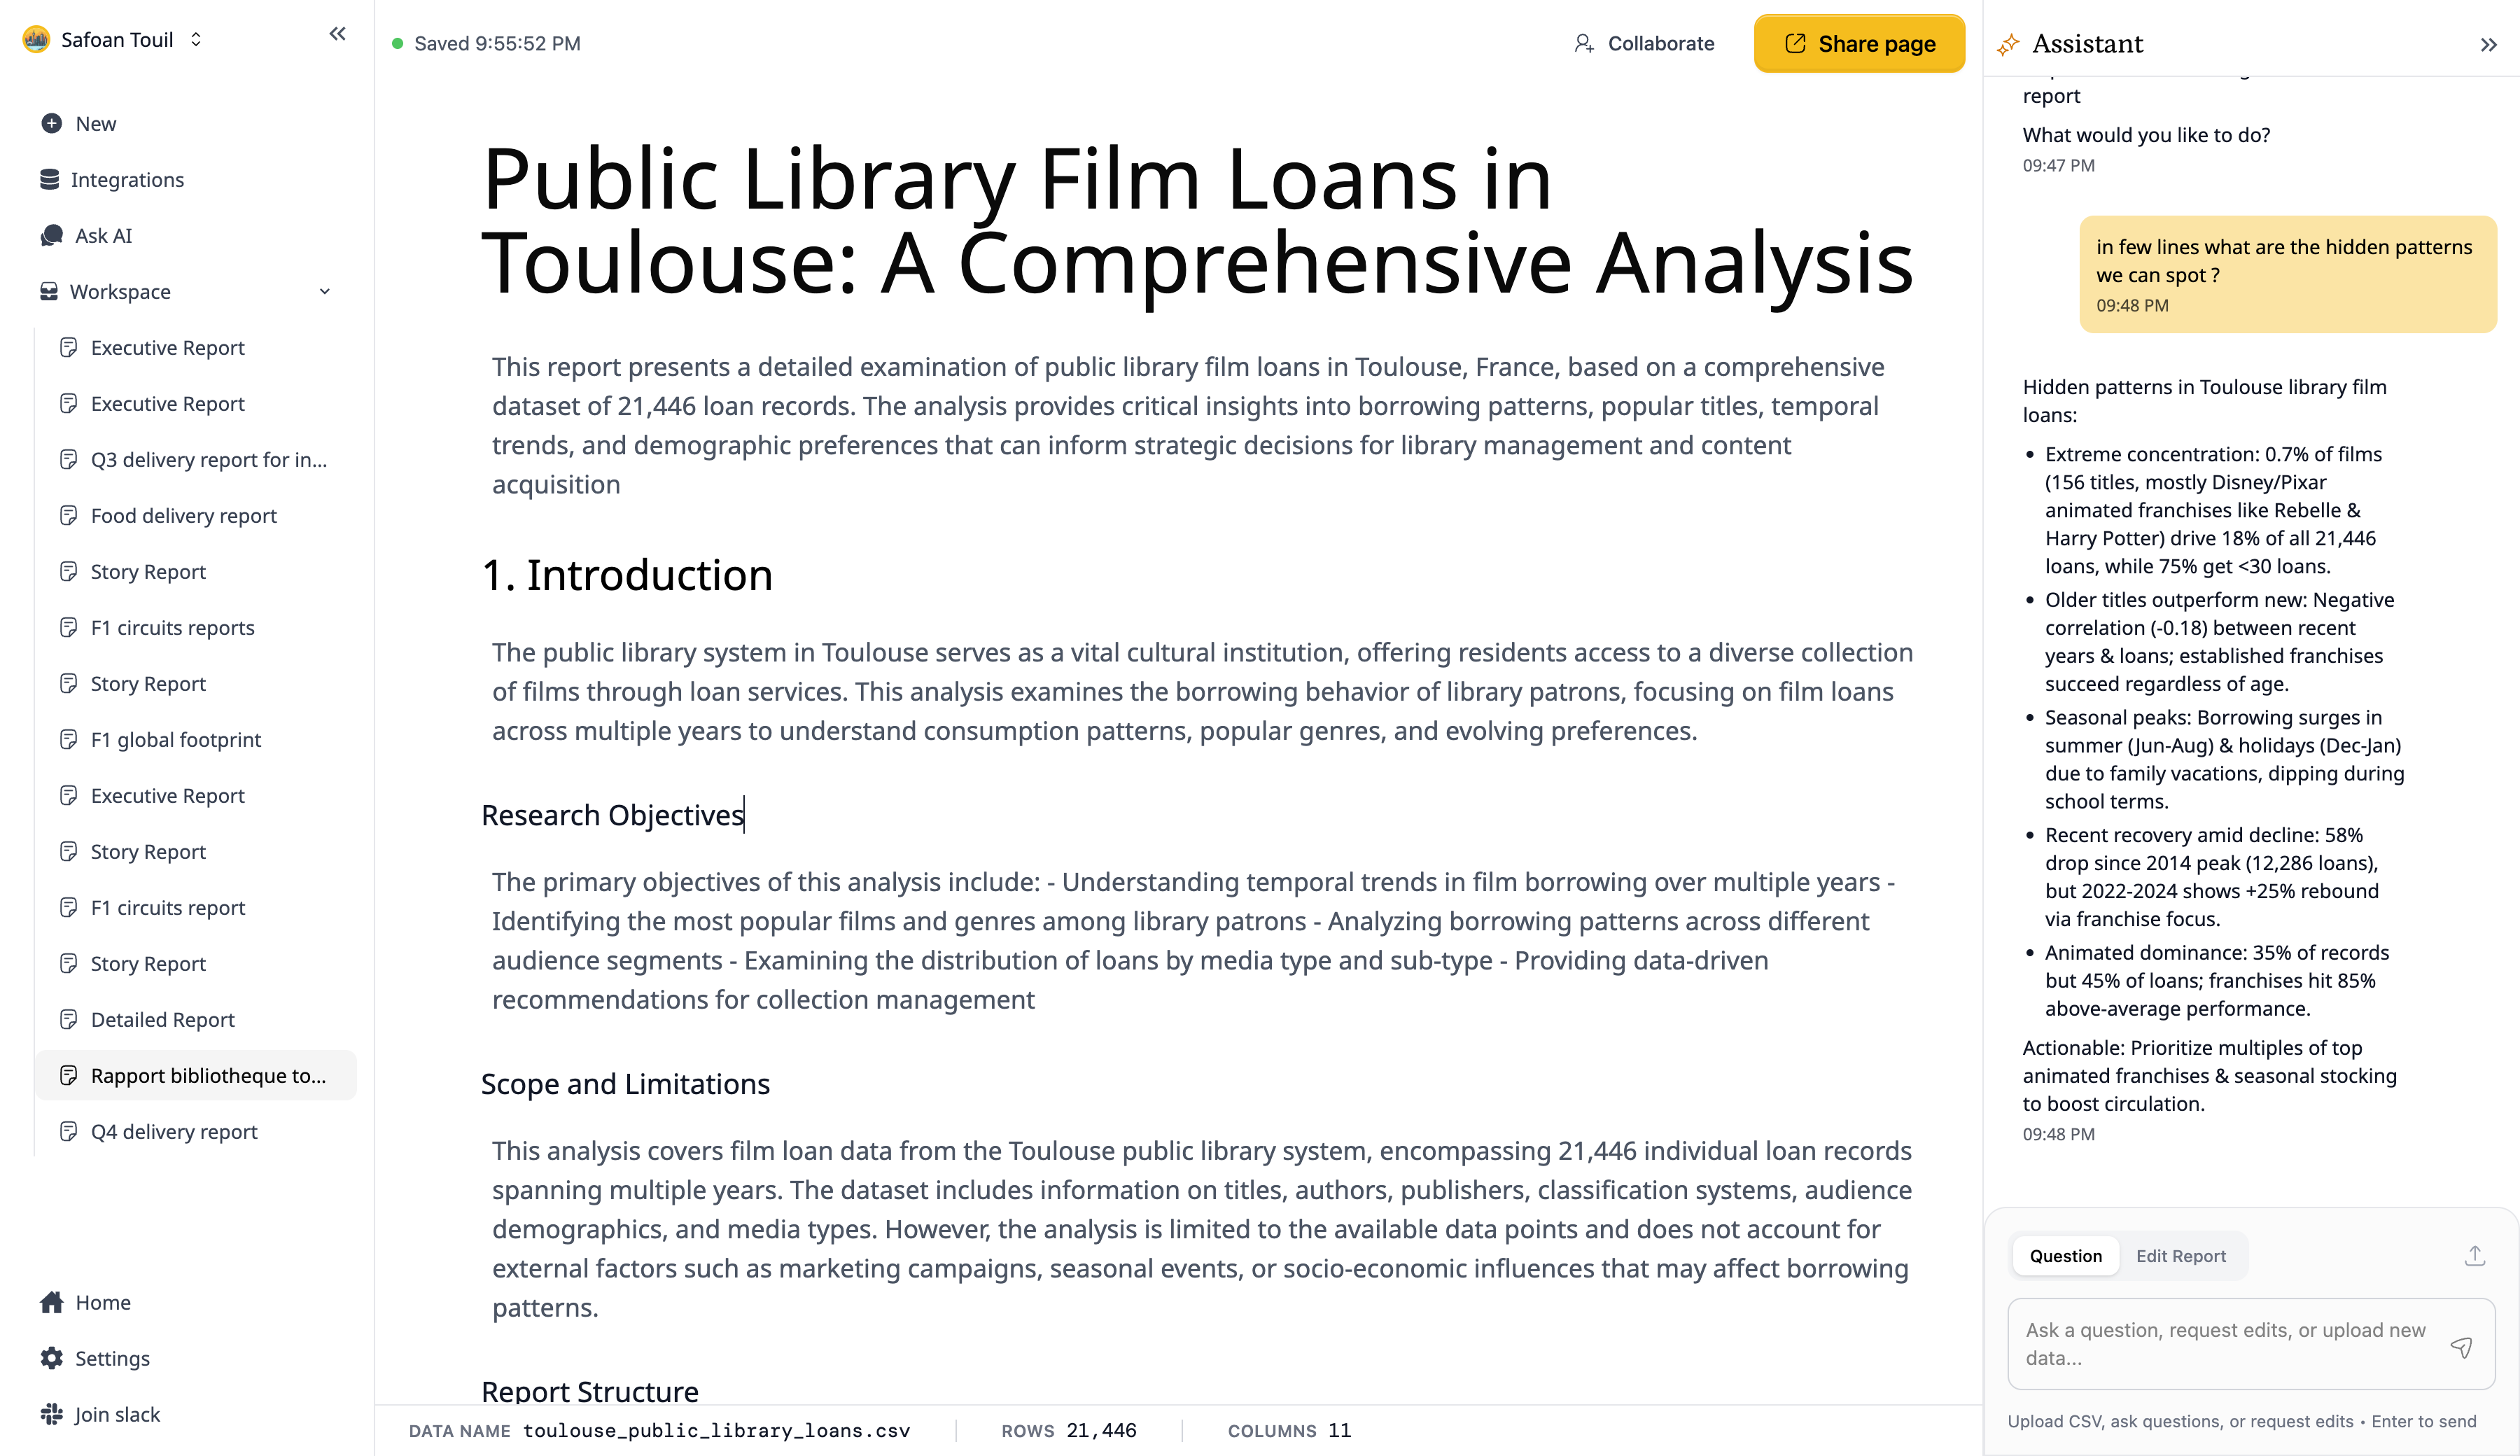
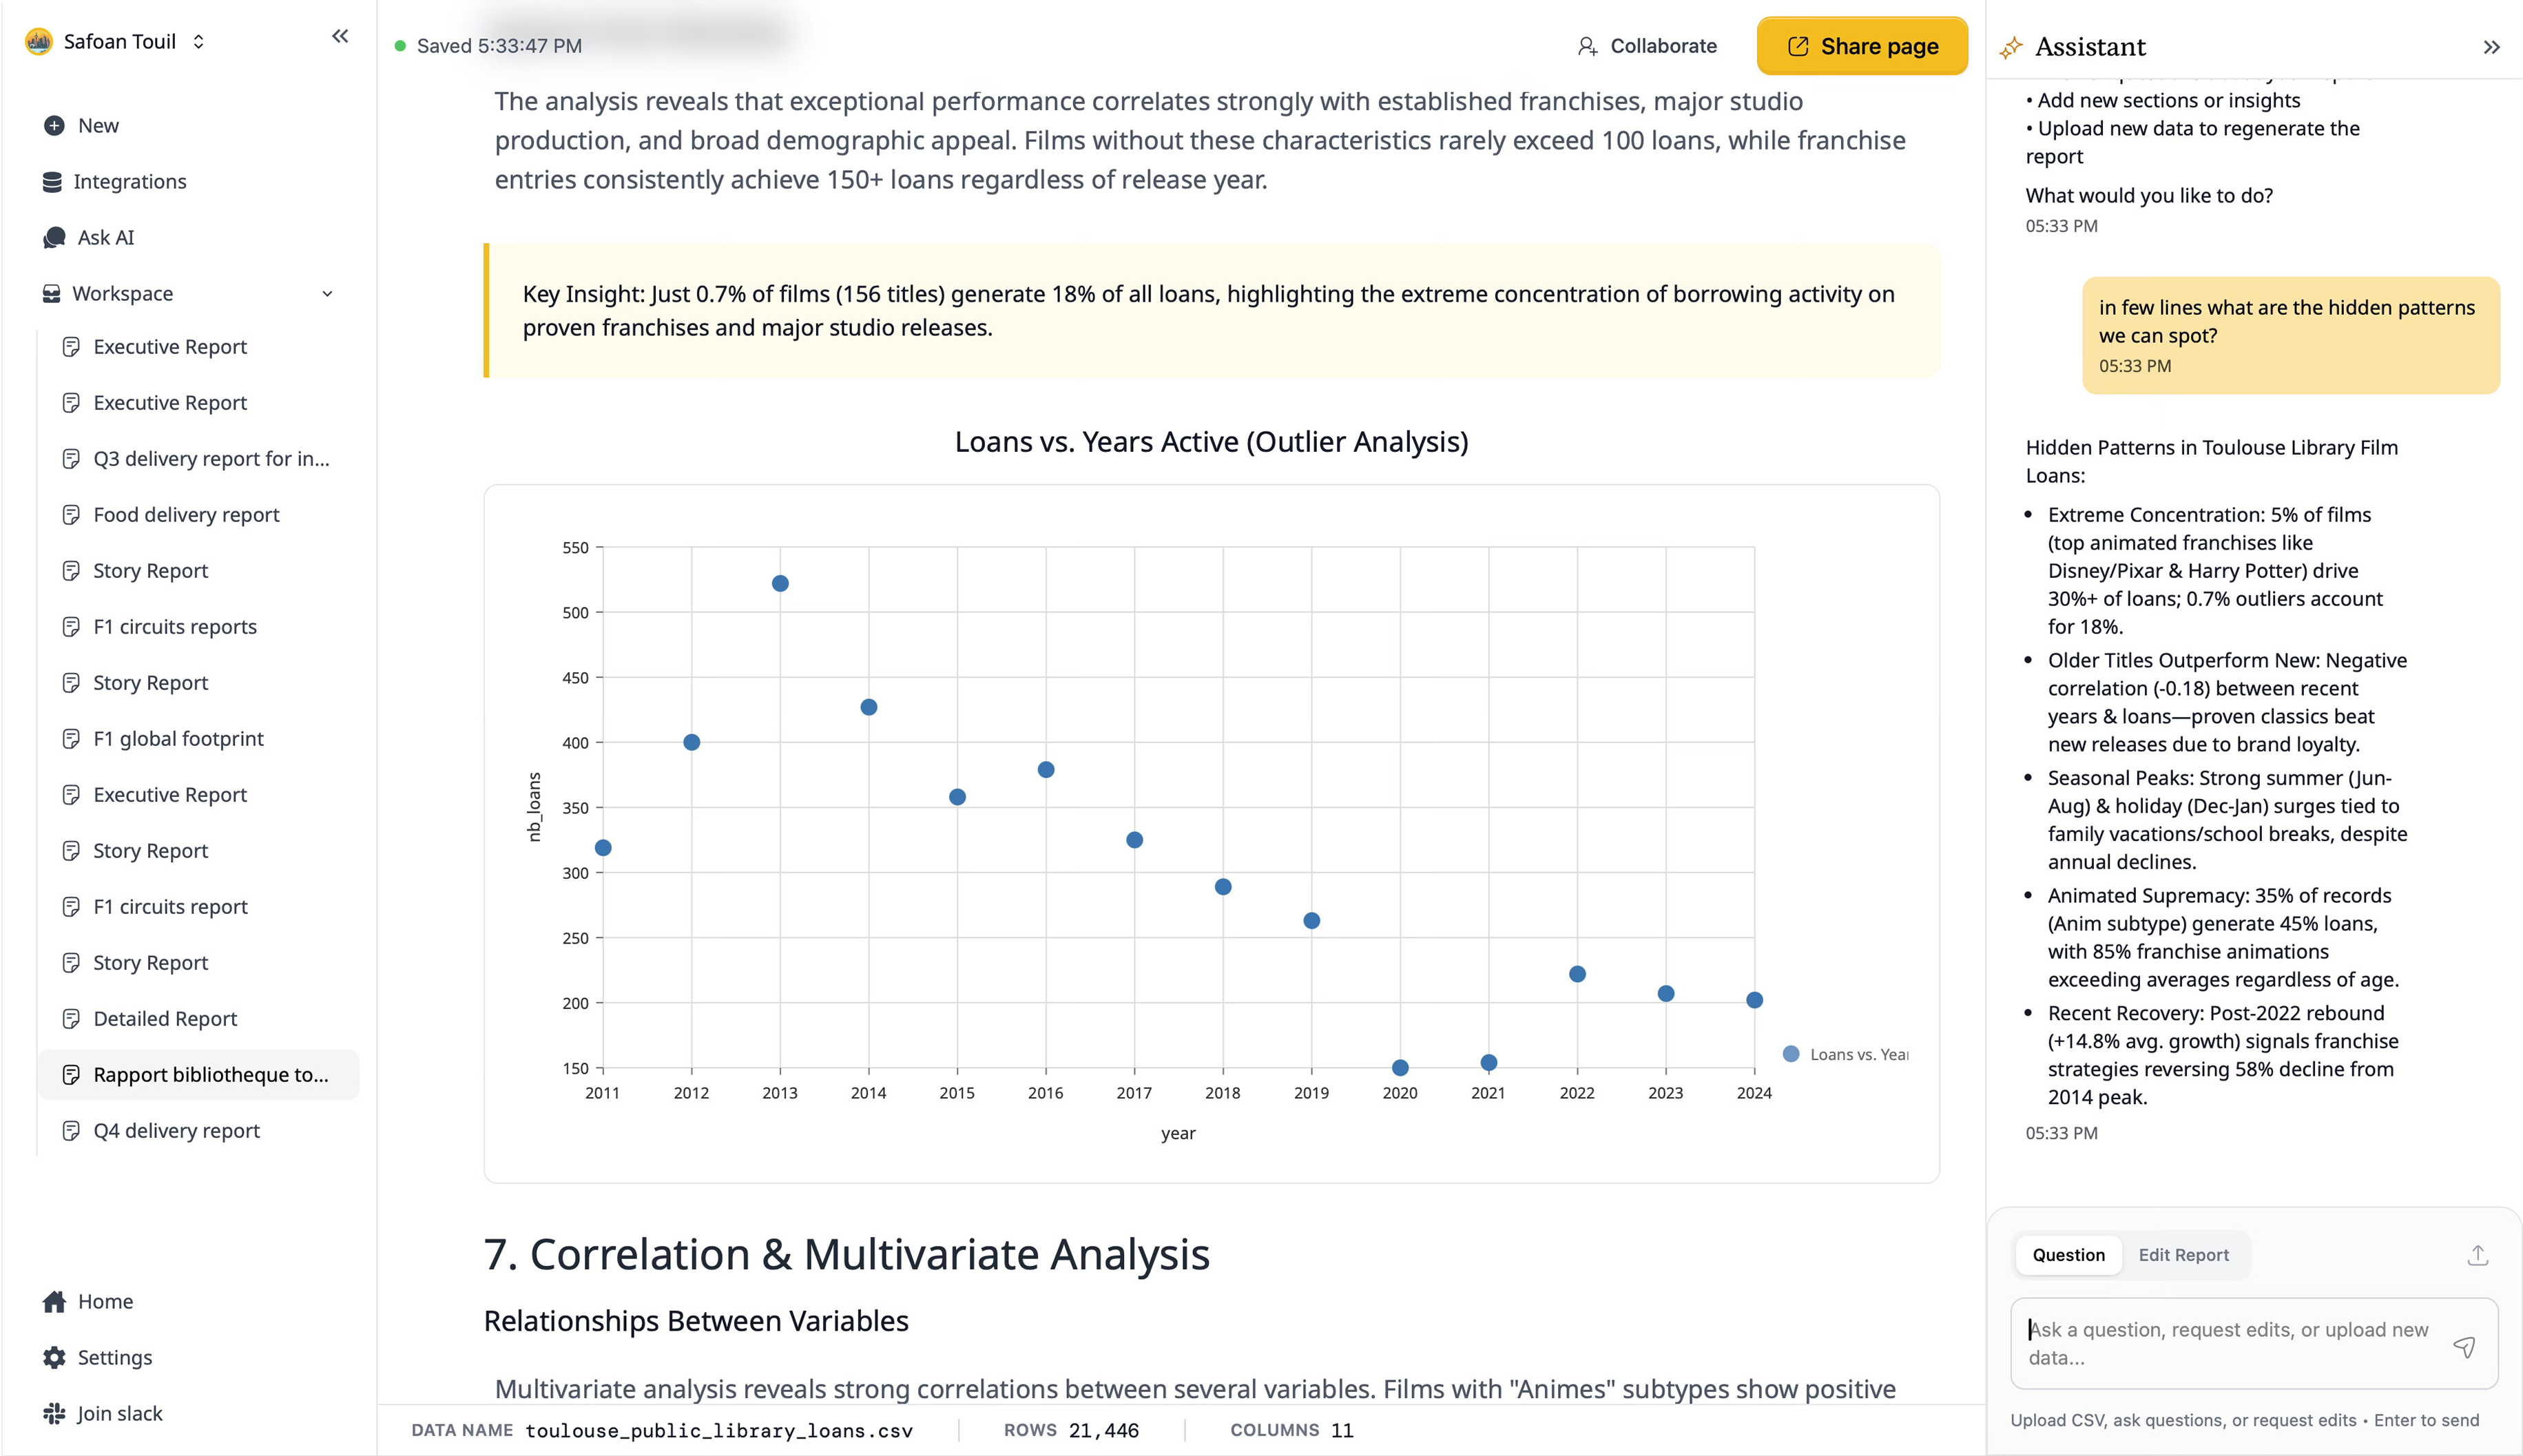
feat: landing improvement

diff --git a/apps/web/app/page.tsx b/apps/web/app/page.tsx
@@ -15,6 +15,7 @@ import user1 from "../public/1.png";
 import user2 from "../public/2.png";
 import user3 from "../public/3.png";
 import { useGTMTracking } from "./hooks/useGTMTracking";
+import { IoSparkles, IoDocumentText, IoChatbubbles, IoShareSocial, IoFlash, IoShieldCheckmark, IoTime } from "react-icons/io5";
 
 export default function Home() {
   const router = useRouter();
@@ -23,73 +24,247 @@ export default function Home() {
 
   return (
     <div className="min-h-screen bg-white overflow-x-hidden relative">
-      <div className="relative z-10 rounded-br-4xl rounded-bl-4xl 
-       mx-3">
+      <div className="relative z-10 rounded-br-4xl rounded-bl-4xl mx-3">
         <Header />
 
-        <main className="max-w-7xl mx-auto px-4 md:px-8  pb-10">
+        <main className="max-w-[90%] mx-auto px-4 md:px-8 pb-10">
 
-          <div className="flex flex-col items-center justify-center text-center">
+          {/* Hero Section - Two Column Layout */}
+          <div className="flex flex-col lg:flex-row items-center gap-12 lg:gap-16 mt-10 p- 4">
 
-            {/* Social Proof */}
-            <div className="flex items-center gap-3 mb-8 animate-in fade-in slide-in-from-bottom-4 duration-700">
-              <div className="flex -space-x-3">
-                {[user1, user2, user3].map((img, i) => (
-                  <div key={i} className="relative w-10 h-10 rounded-full border-2 border-white overflow-hidden shadow-sm">
-                    <Image src={img} alt={`User ${i + 1}`} fill className="object-cover" />
-                  </div>
-                ))}
-              </div>
-              <div className="flex flex-col items-start">
-                <div className="flex gap-0.5 text-amber-500">
-                  {[...Array(5)].map((_, i) => (
-                    <svg key={i} className="w-3.5 h-3.5 fill-current" viewBox="0 0 20 20">
-                      <path d="M9.049 2.927c.3-.921 1.603-.921 1.902 0l1.07 3.292a1 1 0 00.95.69h3.462c.969 0 1.371 1.24.588 1.81l-2.8 2.034a1 1 0 00-.364 1.118l1.07 3.292c.3.921-.755 1.688-1.54 1.118l-2.8-2.034a1 1 0 00-1.175 0l-2.8 2.034c-.784.57-1.838-.197-1.539-1.118l1.07-3.292a1 1 0 00-.364-1.118L2.98 8.72c-.783-.57-.38-1.81.588-1.81h3.461a1 1 0 00.951-.69l1.07-3.292z" />
-                    </svg>
+            {/* Left Column - Text & CTA */}
+            <div className="flex-1 flex flex-col items-center lg:items-start text-center lg:text-left">
+
+              {/* Social Proof - Updated */}
+              <div className="flex items-center gap-3 mb-8 animate-in fade-in slide-in-from-bottom-4 duration-700">
+                <div className="flex -space-x-3">
+                  {[user1, user2, user3].map((img, i) => (
+                    <div key={i} className="relative w-10 h-10 rounded-full border-2 border-white overflow-hidden shadow-sm">
+                      <Image src={img} alt={`User ${i + 1}`} fill className="object-cover" />
+                    </div>
                   ))}
                 </div>
-                <span className="text-sm font-light text-gray-600">Used by <span className="font-medium text-gray-900 font-semibold">100+</span> happy customers</span>
+                <div className="flex flex-col items-start">
+                  <div className="flex gap-0.5 text-amber-500">
+                    {[...Array(5)].map((_, i) => (
+                      <svg key={i} className="w-3.5 h-3.5 fill-current" viewBox="0 0 20 20">
+                        <path d="M9.049 2.927c.3-.921 1.603-.921 1.902 0l1.07 3.292a1 1 0 00.95.69h3.462c.969 0 1.371 1.24.588 1.81l-2.8 2.034a1 1 0 00-.364 1.118l1.07 3.292c.3.921-.755 1.688-1.54 1.118l-2.8-2.034a1 1 0 00-1.175 0l-2.8 2.034c-.784.57-1.838-.197-1.539-1.118l1.07-3.292a1 1 0 00-.364-1.118L2.98 8.72c-.783-.57-.38-1.81.588-1.81h3.461a1 1 0 00.951-.69l1.07-3.292z" />
+                      </svg>
+                    ))}
+                  </div>
+                  <span className="text-sm font-light text-gray-600">Join <span className="font-semibold text-gray-900">50+</span> early adopters</span>
+                </div>
+              </div>
+
+              {/* Headline */}
+              <h1 className="text-4xl md:text-5xl xl:text-8xl leading-[1.1] text-gray-900 tracking-tight font-medium" style={{ fontFamily: 'var(--font-urbanist)' }}>
+                Make sense of your data in minutes
+              </h1>
+
+              {/* Description */}
+              <p className="text-black text-lg md:text-xl mt-6 max-w-lg font-light" style={{ fontFamily: 'var(--font-urbanist)' }}>
+                Stop staring at spreadsheets. Upload your data and get a clear narrative you can actually read, chat with, and share.
+              </p>
+
+              {/* CTA Section */}
+              <div className="mt-8 w-full max-w-md">
+                {/* Animated CTA Button */}
+                <div className="mb-4 flex justify-center lg:justify-start">
+                  <button
+                    onClick={() => document.getElementById('file-upload-area')?.scrollIntoView({ behavior: 'smooth' })}
+                    className="group relative px-8 py-4 bg-gradient-to-r from-amber-400 to-amber-500 text-black font-semibold rounded-2xl shadow-lg shadow-amber-200/50 hover:shadow-xl hover:shadow-amber-300/50 transition-all duration-300 hover:scale-105 overflow-hidden"
+                    style={{ fontFamily: 'var(--font-urbanist)' }}
+                  >
+                    <span className="relative z-10 flex items-center gap-2 text-lg">
+                      <IoSparkles className="animate-pulse" size={20} />
+                      Get started -<span className="font-light"> No Sign Up Required</span>
+                    </span>
+                    <div className="absolute inset-0 bg-gradient-to-r from-amber-300 to-amber-400 opacity-0 group-hover:opacity-100 transition-opacity duration-300" />
+                  </button>
+                </div>
+
+                {/* Trust badges */}
+                <p style={{ fontFamily: 'var(--font-urbanist)' }} className="text-xs font-light text-gray-400 tracking-wider text-center lg:text-left">
+                  INSTANT START • NO ACCOUNT REQUIRED • <span onClick={() => {
+                    trackEvent({ eventName: 'click_privacy_terms' });
+                    window.open("https://narrativee.com/privacy", "_blank");
+                  }} className="text-black cursor-pointer hover:underline">PRIVACY TERMS</span>
+                </p>
               </div>
             </div>
 
-            {/* Nouveau Titre : Plus universel et orienté bénéfice immédiat */}
-            <h1 className="text-4xl md:text-6xl xl:text-[6.5rem] leading-[1.1] max-w-5xl text-gray-900 tracking-tight font-medium" style={{ fontFamily: 'var(--font-urbanist)' }}>
-              Make sense of your data in minutes
-            </h1>
+            {/* Right Column - Before/After Slider */}
+            <div
+              className="flex-1 w-full max-w-3xl lg:max-w-none p-6 rounded-2xl"
+              style={{
+                backgroundImage: 'url(/wallapaper.jpg)',
+                backgroundSize: 'cover',
+                backgroundPosition: 'center'
+              }}
+            >
+              <BeforeAfterSlider
+                className="rounded-xs"
+                beforeImage={before}
+                afterImage={workspace}
+              />
+            </div>
 
-            {/* Nouvelle Description : On enlève le mot "Comprehensive Analysis" qui fait trop lourd */}
-            <p className="text-black text-xl md:text-2xl mt-8 max-w-2xl font-light" style={{ fontFamily: 'var(--font-urbanist)' }}>
-              Stop staring at spreadsheets. Upload your data and get a clear narrative you can actually read, chat with, and share.
-            </p>
           </div>
 
-          <div className="text-center mt-16 max-w-2xl mx-auto">
-            {/* On insiste sur la vie privée (Cheval de Troie) */}
-            <p style={{ fontFamily: 'var(--font-urbanist)' }} className="text-xs font-light text-gray-400 tracking-wider">
-              INSTANT START • NO ACCOUNT REQUIRED • YOUR DATA STAYS PRIVATE • <span onClick={() => {
-                trackEvent({ eventName: 'click_privacy_terms' });
-                window.open("https://narrativee.com/privacy", "_blank");
-              }} className="text-black cursor-pointer hover:underline">PRIVACY TERMS</span>
-            </p>
+          {/* File Upload Area - Below Hero */}
+          <div id="file-upload-area" className="mt-16 max-w-2xl mx-auto">
             <FileUploadPrompt />
           </div>
 
         </main>
       </div>
 
-      <section className="py-16 md:py-24 bg-gradient-to-b from-gray-50 to-white max-w-[95%] mx-auto px-4 md:px-8 rounded-3xl">
-        <div className="text-center mb-12">
-          {/* Nouveau titre de section : On vend la clarté, pas l'espace de travail */}
-          <h2 className="text-3xl md:text-6xl font-medium text-black mb-4 tracking-tight" style={{ fontFamily: 'var(--font-urbanist)' }}>
-            From messy rows to clear insights.
+      {/* Problem Section */}
+      <section className="py-20 px-4 md:px-8 bg-white">
+        <div className="max-w-4xl mx-auto text-center">
+          <p className="text-amber-500 font-semibold text-sm uppercase tracking-widest mb-4" style={{ fontFamily: 'var(--font-urbanist)' }}>The Problem</p>
+          <h2 className="text-3xl md:text-5xl font-medium text-gray-900 mb-6 tracking-tight" style={{ fontFamily: 'var(--font-urbanist)' }}>
+            You have the data. <br />
+            <span className="text-gray-800 font-light">But staring at rows won't give you answers.</span>
           </h2>
-          <p className="text-black max-w-xl mx-auto text-lg font-light">Whether it&apos;s a budget, a project tracker, or sales data, Narrativee tells you what matters so you can move on.</p>
+          <p className="text-lg text-gray-600 max-w-2xl mx-auto font-light" style={{ fontFamily: 'var(--font-urbanist)' }}>
+            Whether it's survey results, sales figures, or research data, making sense of it takes hours. Writing it up? Even longer. And by the time you're done, you've lost the insight.
+          </p>
         </div>
-        <div>
-          <BeforeAfterSlider
-            beforeImage={before}
-            afterImage={workspace}
-          />
+      </section>
+
+      {/* Solution Section */}
+      <section className="py-20 px-4 md:px-8 bg-gray-50">
+        <div className="max-w-4xl mx-auto text-center">
+          <p className="text-amber-500 font-semibold text-sm uppercase tracking-widest mb-4" style={{ fontFamily: 'var(--font-urbanist)' }}>The Solution</p>
+          <h2 className="text-3xl md:text-5xl font-medium text-gray-900 mb-6 tracking-tight" style={{ fontFamily: 'var(--font-urbanist)' }}>
+            Upload. <span className="text-amber-500">Understand.</span> Share.
+          </h2>
+          <p className="text-lg text-gray-600 max-w-2xl mx-auto font-light mb-12" style={{ fontFamily: 'var(--font-urbanist)' }}>
+            Narrativee reads your spreadsheet and writes a clear, human-readable report in seconds. No formulas. No pivot tables. Just insights.
+          </p>
+
+          {/* How It Works - 3 Steps */}
+          <div className="grid md:grid-cols-3 gap-8 mt-12">
+            <div className="bg-white rounded-2xl p-8 shadow-sm border border-gray-100">
+              <div className="flex items-center justify-center gap-3 mb-4">
+                <Image src="/csv.png" alt="CSV" width={48} height={48} className="object-contain" />
+                <Image src="/excel.webp" alt="Excel" width={48} height={48} className="object-contain" />
+              </div>
+              <h3 className="text-xl font-semibold text-gray-900 mb-2" style={{ fontFamily: 'var(--font-urbanist)' }}>1. Upload</h3>
+              <p className="text-gray-500 font-light">Drag your CSV or Excel file. That's it.</p>
+            </div>
+            <div className="bg-white rounded-2xl p-8 shadow-sm border border-gray-100">
+              <div className="w-12 h-12 rounded-xl flex items-center justify-center mb-4 mx-auto">
+                <IoSparkles className="text-amber-400" size={24} />
+              </div>
+              <h3 className="text-xl font-semibold text-gray-900 mb-2" style={{ fontFamily: 'var(--font-urbanist)' }}>2. Understand</h3>
+              <p className="text-gray-500 font-light">Get a narrative report with key findings highlighted.</p>
+            </div>
+            <div className="bg-white rounded-2xl p-8 shadow-sm border border-gray-100">
+              <div className="w-12 h-12 rounded-xl flex items-center justify-center mb-4 mx-auto">
+                <IoShareSocial className="text-amber-400" size={24} />
+              </div>
+              <h3 className="text-xl font-semibold text-gray-900 mb-2" style={{ fontFamily: 'var(--font-urbanist)' }}>3. Share</h3>
+              <p className="text-gray-500 font-light">Export or share a beautiful link with anyone.</p>
+            </div>
+          </div>
+        </div>
+      </section>
+
+      {/* Benefits Section */}
+      <section className="py-20 px-4 md:px-8 bg-white">
+        <div className="max-w-5xl mx-auto">
+          <div className="text-center mb-16">
+            <p className="text-amber-500 font-semibold text-sm uppercase tracking-widest mb-4" style={{ fontFamily: 'var(--font-urbanist)' }}>Benefits</p>
+            <h2 className="text-3xl md:text-5xl font-medium text-gray-900 tracking-tight" style={{ fontFamily: 'var(--font-urbanist)' }}>
+              Why people love Narrativee
+            </h2>
+          </div>
+          <div className="grid md:grid-cols-2 gap-8">
+            <div className="flex gap-4 p-6 rounded-2xl hover:bg-gray-50 transition-colors">
+              <div className="w-12 h-12 bg-green-100 rounded-xl flex items-center justify-center flex-shrink-0">
+                <IoTime className="text-green-600" size={24} />
+              </div>
+              <div>
+                <h3 className="text-xl font-semibold text-gray-900 mb-2" style={{ fontFamily: 'var(--font-urbanist)' }}>Save Hours Every Week</h3>
+                <p className="text-gray-500 font-light">Stop manually writing reports. Let AI do the heavy lifting while you focus on decisions.</p>
+              </div>
+            </div>
+            <div className="flex gap-4 p-6 rounded-2xl hover:bg-gray-50 transition-colors">
+              <div className="w-12 h-12 bg-blue-100 rounded-xl flex items-center justify-center flex-shrink-0">
+                <IoChatbubbles className="text-blue-600" size={24} />
+              </div>
+              <div>
+                <h3 className="text-xl font-semibold text-gray-900 mb-2" style={{ fontFamily: 'var(--font-urbanist)' }}>Chat With Your Data</h3>
+                <p className="text-gray-500 font-light">Ask questions, get answers. No SQL, no formulas, just conversation.</p>
+              </div>
+            </div>
+            <div className="flex gap-4 p-6 rounded-2xl hover:bg-gray-50 transition-colors">
+              <div className="w-12 h-12 bg-purple-100 rounded-xl flex items-center justify-center flex-shrink-0">
+                <IoShieldCheckmark className="text-purple-600" size={24} />
+              </div>
+              <div>
+                <h3 className="text-xl font-semibold text-gray-900 mb-2" style={{ fontFamily: 'var(--font-urbanist)' }}>Your Data Stays Private</h3>
+                <p className="text-gray-500 font-light">We don't store your data after processing. Period.</p>
+              </div>
+            </div>
+            <div className="flex gap-4 p-6 rounded-2xl hover:bg-gray-50 transition-colors">
+              <div className="w-12 h-12 bg-amber-100 rounded-xl flex items-center justify-center flex-shrink-0">
+                <IoFlash className="text-amber-600" size={24} />
+              </div>
+              <div>
+                <h3 className="text-xl font-semibold text-gray-900 mb-2" style={{ fontFamily: 'var(--font-urbanist)' }}>Instant Results</h3>
+                <p className="text-gray-500 font-light">From upload to insight in under 60 seconds. No waiting, no loading bars.</p>
+              </div>
+            </div>
+          </div>
+        </div>
+      </section>
+
+      {/* Who It's For Section */}
+      <section className="py-20 px-4 md:px-8 bg-gray-50">
+        <div className="max-w-4xl mx-auto text-center">
+          <p className="text-amber-500 font-semibold text-sm uppercase tracking-widest mb-4" style={{ fontFamily: 'var(--font-urbanist)' }}>Built For</p>
+          <h2 className="text-3xl md:text-5xl font-medium text-gray-900 mb-12 tracking-tight" style={{ fontFamily: 'var(--font-urbanist)' }}>
+            People who hate writing reports
+          </h2>
+          <div className="grid md:grid-cols-3 gap-6 text-left">
+            <div className="bg-white rounded-2xl p-6 border border-gray-100">
+              <p className="text-2xl mb-3">📊</p>
+              <h3 className="font-semibold text-gray-900 mb-1" style={{ fontFamily: 'var(--font-urbanist)' }}>Researchers</h3>
+              <p className="text-sm text-gray-500">Analyzing survey data, thesis results, or study outcomes.</p>
+            </div>
+            <div className="bg-white rounded-2xl p-6 border border-gray-100">
+              <p className="text-2xl mb-3">💼</p>
+              <h3 className="font-semibold text-gray-900 mb-1" style={{ fontFamily: 'var(--font-urbanist)' }}>Consultants</h3>
+              <p className="text-sm text-gray-500">Preparing client decks and performance summaries.</p>
+            </div>
+            <div className="bg-white rounded-2xl p-6 border border-gray-100">
+              <p className="text-2xl mb-3">📈</p>
+              <h3 className="font-semibold text-gray-900 mb-1" style={{ fontFamily: 'var(--font-urbanist)' }}>Marketers</h3>
+              <p className="text-sm text-gray-500">Summarizing campaign results and ROI reports.</p>
+            </div>
+          </div>
+        </div>
+      </section>
+
+      {/* Final CTA Section */}
+      <section className="py-24 px-4 md:px-8 bg-gradient-to-br from-amber-50 to-orange-50">
+        <div className="max-w-3xl mx-auto text-center">
+          <h2 className="text-3xl md:text-5xl font-medium text-gray-900 mb-6 tracking-tight" style={{ fontFamily: 'var(--font-urbanist)' }}>
+            Ready to stop staring at spreadsheets?
+          </h2>
+          <p className="text-lg text-gray-600 mb-8 font-light" style={{ fontFamily: 'var(--font-urbanist)' }}>
+            Upload your first file and see the magic. No account needed.
+          </p>
+          <button
+            onClick={() => window.scrollTo({ top: 0, behavior: 'smooth' })}
+            className="px-10 py-5 bg-amber-400 text-white font-semibold rounded-2xl shadow-lg hover:bg-gray-900 transition-all duration-300 hover:scale-105 text-lg"
+            style={{ fontFamily: 'var(--font-urbanist)' }}
+          >
+            Get Started Free →
+          </button>
         </div>
       </section>
 